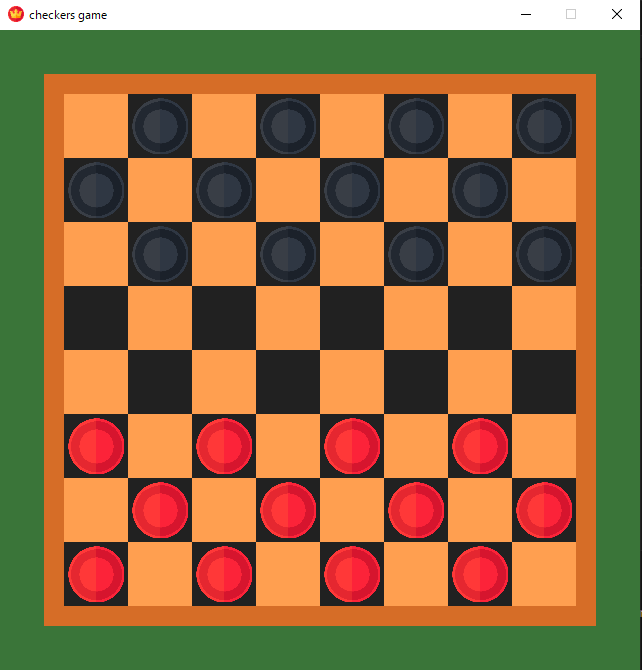
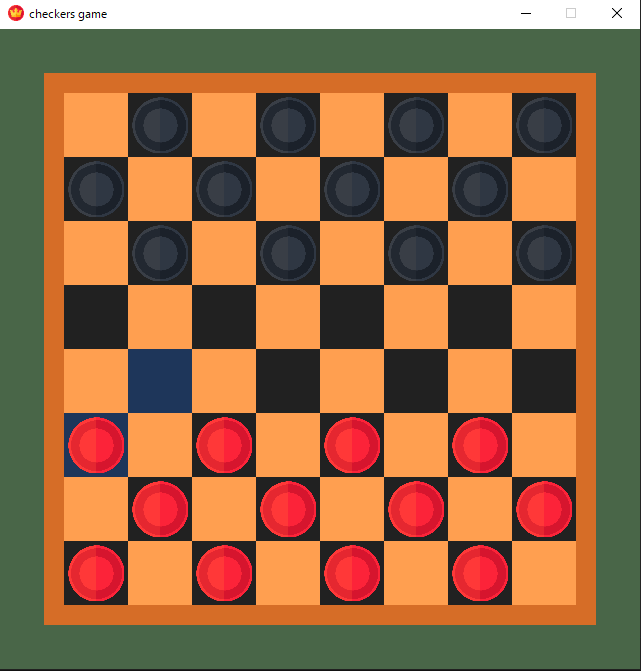
common functions

diff --git a/board.py b/board.py
@@ -1,13 +1,41 @@
 import pygame
 import config
+from asset import AssetManager
+from piece import Piece
 
 class Board():
     def __init__(self):
-        # self.board=[[0*board_size]*board_size]
         self.pos_fix=config.border+config.margin
         self.border_size=config.piece_size*config.board_size+config.border*2
 
-    def draw(self, screen):
+        assets = AssetManager()
+        assets.load_pieces()
+
+        self.checker_size=config.piece_size-2*config.piece_fix
+        self.color1=assets.get_image("red", self.checker_size)
+        self.color2=assets.get_image("black", self.checker_size)
+        self.king_color1=assets.get_image("king-red", self.checker_size)
+        self.king_color2=assets.get_image("king-black", self.checker_size)
+        
+        self.board = [
+            [0 for _ in range(config.board_size)]
+            for _ in range(config.board_size)
+        ]
+    
+    def set_game(self, player):
+        if(player=="red"):
+            self.color1, self.color2 = self.color2, self.color1
+        
+        for i in range(config.board_size):
+            for j in range(config.board_size):
+                if (i+j)%2==1:
+                    if i<3:
+                        self.board[j][i]=(Piece(self.color1,  j, i, 0))
+                    elif i>=5:
+                        self.board[j][i]=(Piece(self.color2, j, i, 1))
+
+        
+    def draw_board(self, screen):
         rec=pygame.Rect(config.margin, config.margin, self.border_size, self.border_size)
         pygame.draw.rect(screen, config.border_color, rec)
         
@@ -16,3 +44,51 @@ class Board():
                 color = config.white_color if (i+j)%2==0 else config.black_color
                 rec=pygame.Rect(self.pos_fix + i*config.piece_size, self.pos_fix + j*config.piece_size, config.piece_size, config.piece_size)
                 pygame.draw.rect(screen, color, rec)
+
+    def draw_pieces(self, screen):
+        for row in self.board:
+            for piece in row:
+                if piece!=0:
+                    piece.draw(screen)  
+
+
+    def valid_moves(self, col, row):
+        piece=self.board[col][row]
+        player=piece.player
+        king=piece.king
+        direction= -1 if player==1 else 1
+        moves=[]
+        for dc,dr in config.directions:
+            new_col=col+dc
+            new_row=row+dr
+            if 0<=new_col<config.board_size and 0<=new_row<config.board_size:
+                if self.board[new_col][new_row]==0:
+                    if dr==direction or king: # normal forward moves
+                        moves.append((new_col,new_row)) 
+                else:
+                    capture_moves=self.check_capture(new_col, new_row, dc, dr, player)
+                    if capture_moves:
+                        moves.append(capture_moves)
+        return moves
+
+    def check_capture(self, new_col, new_row, dc, dr, player):
+        if self.board[new_col][new_row].player!=player: #if enemy
+            jump_col=new_col+dc
+            jump_row=new_row+dr
+            if 0<=jump_col<config.board_size and 0<=jump_row<config.board_size and self.board[jump_col][jump_row]==0 : #if can jump over
+                captures=[(new_col, new_row),(jump_col, jump_row)]
+                return captures
+        else:
+            return None
+
+
+    def move_piece(self, color, col, row, old_col=None, old_row=None):
+        player = 0 if color == self.color1 else 1
+        
+        self.board[old_col][old_row], self.board[col][row] = self.board[col][row], self.board[old_col][old_row]
+        self.board[col][row].update(col,row)
+        
+        if (player == 0 and row == config.board_size-1):
+            self.board[col][row].become_king(self.king_color2)
+        elif (player == 1 and row == 0):
+            self.board[col][row].become_king(self.king_color1)

diff --git a/game.py b/game.py
@@ -1,0 +1,71 @@
+import pygame
+import config
+from asset import AssetManager
+from board import Board
+
+class Game():
+    def __init__(self):
+        self.board = Board()
+        self.board.set_game(config.player)
+        self.pos_fix=config.border+config.margin
+        self.positions=[]
+        self.captures={}
+
+    def draw_selected(self, screen):
+        for rec in self.positions:
+            pygame.draw.rect(screen, config.select_color, rec)
+
+    def draw(self, screen):
+        screen.fill((config.back_color))
+        self.board.draw_board(screen)
+        self.draw_selected(screen)
+        self.board.draw_pieces(screen)
+
+    def handle_click(self, pos):
+        col, row = pos
+        col=self.pos_to_idx(col)
+        row=self.pos_to_idx(row)
+
+        if (col>=0 and col<config.board_size and row>=0 and row<config.board_size):
+            if self.board.board[col][row]!=0: #selected a piece
+                self.positions=[]
+                self.captures={}
+                moves=self.board.valid_moves(col,row)
+                rec=self.make_rec(col, row)
+                self.positions.append(rec)
+                for m in moves:
+                    if type(m) is list:
+                        self.captures[m[1]]=m[0]
+                        m=m[1]
+                    rec=self.make_rec(m[0], m[1])
+                    self.positions.append(rec)
+
+            elif (col+row)%2==1 and self.make_rec(col, row) in self.positions: #clicked selected place
+                piece_rec=self.positions[0]
+                old_col = self.pos_to_idx(piece_rec.x)
+                old_row = self.pos_to_idx(piece_rec.y)
+
+                if (col, row) in self.captures:
+                    captured=self.captures[(col, row)]
+                    self.board.board[captured[0]][captured[1]]=0
+
+                self.board.move_piece(self.board.board[old_col][old_row].image, col, row, old_col, old_row)
+                self.positions=[]
+                self.captures={}
+            else: #clicked unreachable place
+                self.positions=[]
+                self.captures={}
+
+
+    def make_rec(self, col, row):
+        return pygame.Rect(self.pos_fix + col*config.piece_size, 
+                           self.pos_fix + row*config.piece_size, 
+                           config.piece_size, config.piece_size)
+    def pos_to_idx(self, pos):
+        return int((pos-self.pos_fix)//self.pos_fix)
+
+    def get_con(self):
+        assets = AssetManager()
+        assets.load_image("king-red")
+        return assets.get_image("king-red")
+    

diff --git a/main.py b/main.py
@@ -1,43 +1,33 @@
 import pygame
+from game import Game
 import config
-from asset import AssetManager
-from checkers import Checkers
-from board import Board
 
 pygame.init()
 
 screen = pygame.display.set_mode((config.screen_size,config.screen_size))
 
-# get images
-assets = AssetManager()
-king_red=assets.get_image("king-red")
-
-#board
-board = Board()
-
-#pieces
-pieces=Checkers()
-pieces.set_game(config.player)
+game = Game()
 
 #display
 pygame.display.set_caption("checkers game")
-pygame.display.set_icon(king_red)
+pygame.display.set_icon(game.get_con())
 
 # time management
 clock = pygame.time.Clock()
 running = True
 
 while(running):
-    screen.fill((config.back_color))
 
     #draw
-    board.draw(screen)
-    pieces.draw(screen)
+    game.draw(screen)
 
     #events
     for event in pygame.event.get():
         if event.type == pygame.QUIT:
             running = False
+        if event.type == pygame.MOUSEBUTTONDOWN:
+            game.handle_click(pygame.mouse.get_pos())
+
 
     pygame.display.flip()
     clock.tick(60)

diff --git a/piece.py b/piece.py
@@ -1,12 +1,24 @@
 import pygame
+import config
 
-class Piece(object):
-    def __init__(self, image, x,y):
+class Piece(pygame.sprite.Sprite):
+    def __init__(self, image, x,y, player):
+        super().__init__()
+        self.pos_fix=config.border+config.margin+config.piece_fix
         self.image=image
-        self.rect=self.image.get_rect(topleft=(x, y))
-    
+        self.col=x
+        self.row=y
+        self.update(self.col, self.row)
+        self.player=player
+        self.king=False
+            
     def update(self, x,y):
-        self.rect=self.image.get_rect(topleft=(x,y))
+        self.rect=self.image.get_rect(topleft=(self.pos_fix+x*config.piece_size, 
+                                               self.pos_fix+y*config.piece_size))
+
+    def become_king(self, image):
+        self.king=True
+        self.image = image
 
     def draw(self, screen):
         screen.blit(self.image, self.rect)

diff --git a/asset.py b/asset.py
@@ -3,18 +3,17 @@ import pygame
 class AssetManager():
     def __init__(self):
         self.textures = {}
-        self.load_pieces()
     
-    def load_image(self, name, path):
-        img=pygame.image.load(path).convert_alpha()
+    def load_image(self, name):
+        img=pygame.image.load(f"imgs/{name}.png").convert_alpha()
         self.textures[name]=img
         
 
     def load_pieces(self):
-        self.load_image("red","imgs/red.png")
-        self.load_image("black","imgs/black.png")
-        self.load_image("king-red","imgs/crown-red.png")
-        self.load_image("king-black","imgs/crown-black.png")
+        self.load_image("red")
+        self.load_image("black")
+        self.load_image("king-red")
+        self.load_image("king-black")
     
     def get_image(self, name, size=None):
         img=self.textures[name]

diff --git a/config.py b/config.py
@@ -4,10 +4,14 @@ board_size=8
 piece_fix=4
 border=20
 margin=(screen_size-piece_size*board_size)/2-border
+checker_size=piece_size-2*piece_fix
 
 white_color="#ff9f50"
 black_color="#212121"
+select_color="#1E365A"
 border_color="#d66d27"
-back_color = "#3a7539"
+back_color = "#496648"
 
 player="red"
+
+directions=[(1,1),(-1,1),(-1,-1),(1,-1)]

diff --git a/README.md b/README.md
@@ -10,11 +10,15 @@ This projec is a Python Pygame game.
 
 ## Features
 
-for now just desplays the board
+* GUI desplays the board
+* At the begining the pieces are set on correct positions
+* On click you can see possible moves
+* You can move and capture other pieces
 
 ## Screenshots
 
 ![App Screenshot](screenshots/1.png)
+![App Screenshot](screenshots/2.png)
 
 ## Project Structure
 
